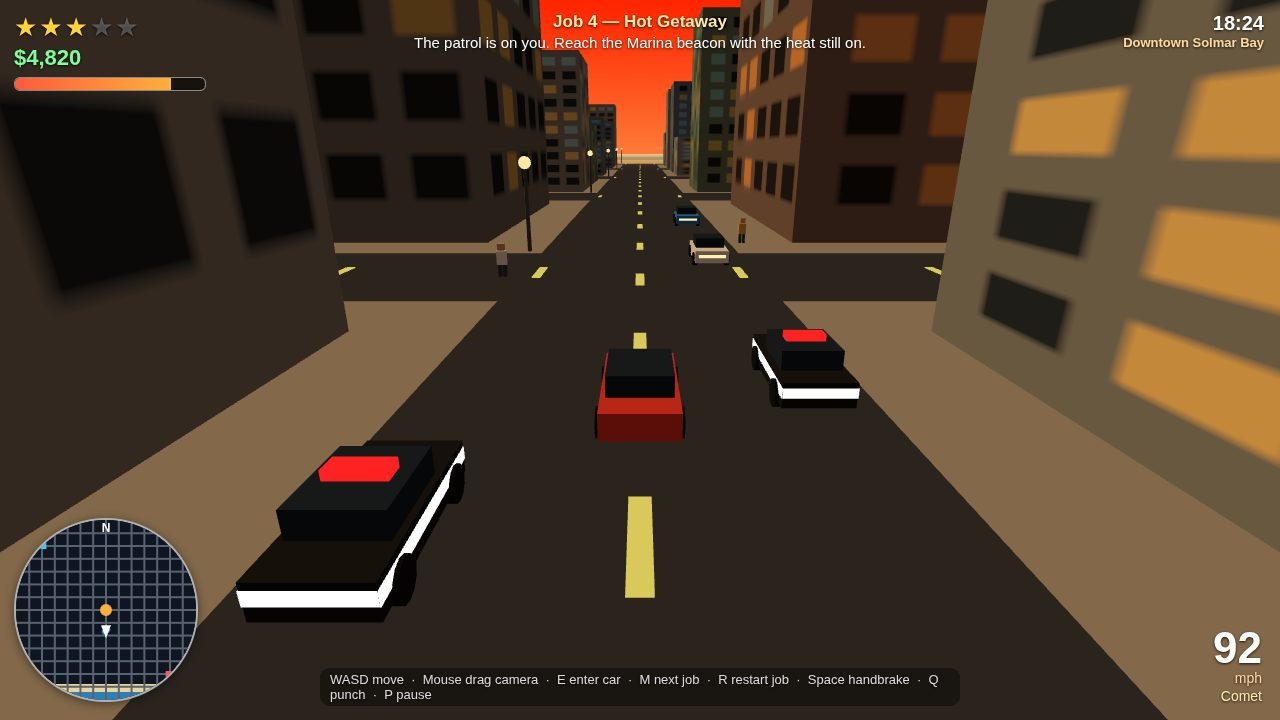
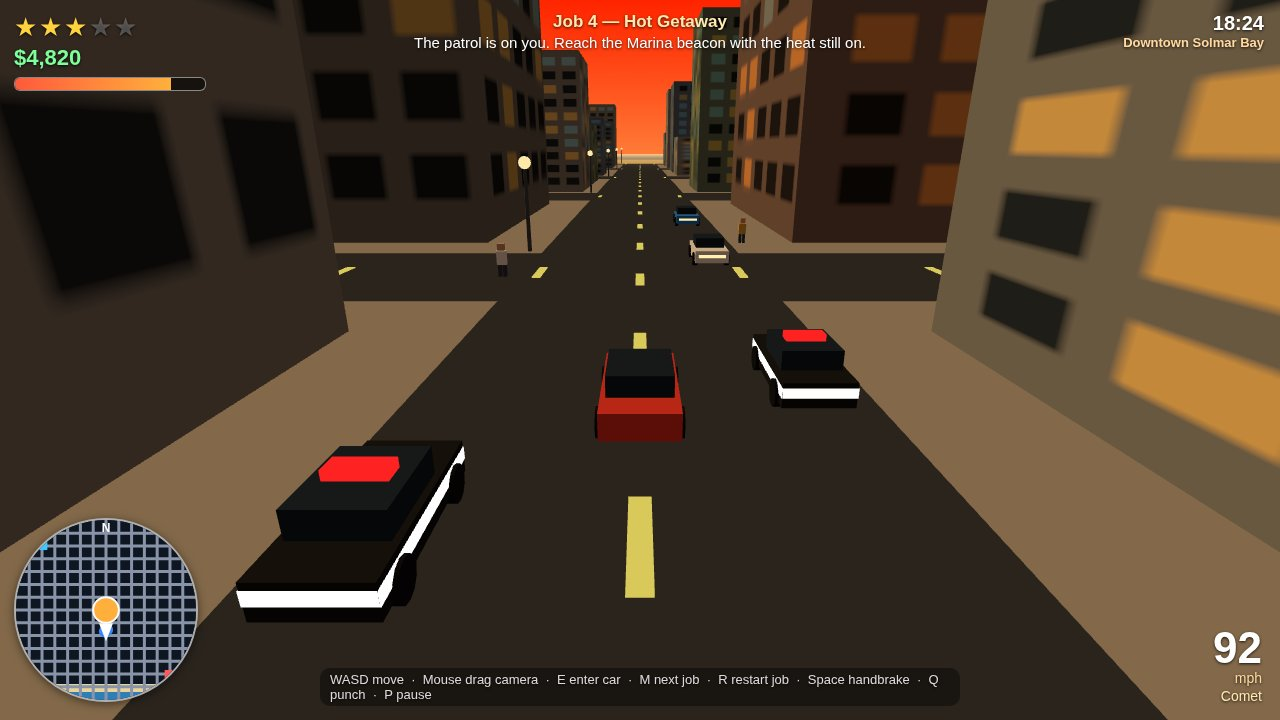
Resubmit reframing: marina water, beachfront drive, in-car mission, legible minimap

Changed region(s): [[0.0, 0.7333, 0.1562, 0.9778], [0.0312, 0.0306, 0.0625, 0.0611]]

diff --git a/game/src/shots.js b/game/src/shots.js
@@ -1,6 +1,22 @@
 // Deterministic ?shot= scenes: chase | drive | mission | heist. Each stages a late-game
 // unlocked state with a fixed seed, freezes traffic, peds and police, and runs a fixed number
 // of physics steps so the same seed always gives the same frame.
+//
+// Resubmit reframing (campaign "90%", pre-build review amendments applied):
+// - drive moved to the southern beachfront road (z = 348): the car runs east with the
+//   beach and water on its right (south) and the downtown towers on its left (north),
+//   a composition unlike chase/heist instead of the same street as chase.
+// - heist moved onto the marina road itself (x = 348, heading south): the Job 5 beacon,
+//   the docks and the boats are ahead of the car, and the eastern marina water strip
+//   (world.js) puts real water under the boats — reframing alone could not show water
+//   there, because the only water was 300 units south of the dry marina.
+// - mission: Rook is now inside a car before Job 1 starts, so the "Drive the package"
+//   objective matches the frame (the Job 2 alternative was dropped: its beacon sits
+//   at (0, 290) on the beach, a whole second framing, not a swap).
+// - chase (the cover) is untouched: same position, heading, cops and street life.
+// - Every moved shot carries its stageStreetLife coordinates with it, so traffic and
+//   pedestrians stay in frame; the cops are already anchored relative to the player.
+// - Step 5 of the plan (facade/shadow variety) was dropped outright as first-to-drop.
 import { STEP } from './config.js';
 import { placeCarAt } from './driving.js';
 import { enterCar } from './player.js';
@@ -38,6 +54,8 @@ function stageCops(game, wanted, offsets) {
 }
 
 // Put a few traffic cars and pedestrians where the camera can see them.
+// Coordinates are per-shot and move with the shot: a staged car or ped left at
+// the old position would sit outside the new frame entirely.
 function stageStreetLife(game, carSpots, pedSpots) {
   game.traffic.cars.slice(0, carSpots.length).forEach((car, i) => {
     car.pos.set(carSpots[i][0], 0, carSpots[i][1]);
@@ -61,27 +79,33 @@ export function stageShot(name, game) {
   game.time = 84 * 60; // 18:24, golden hour.
 
   if (name === 'drive') {
-    stageCar(game, 0, 120, 0, 26);
+    // Beachfront cruise: east along the southernmost road (z = 348), water and
+    // sand on the right, towers on the left. Traffic ahead in both lanes,
+    // pedestrians on the north sidewalk and one on the sand.
+    stageCar(game, -120, 348, Math.PI / 2, 26);
     game.missions.start(1, game.traffic);
     game.police.setWanted(0);
     game.player.health = 100;
-    stageStreetLife(game, [[-4.5, 160, Math.PI], [-4.5, 185, Math.PI]], [[8, 165, 0], [-8, 178, Math.PI], [8, 190, 0]]);
+    stageStreetLife(game, [[-70, 343.5, Math.PI / 2], [-35, 352.5, -Math.PI / 2]], [[-90, 340, 0], [-55, 357, Math.PI], [-20, 340, 0]]);
   } else if (name === 'mission') {
-    // On foot near the Job 1 beacon, downtown, peds strolling past.
-    game.player.pos.set(0, 0, 74);
-    game.player.heading = Math.PI;
-    game.renderer.camState.yaw = Math.PI; // camera behind Rook, beacon ahead in frame
+    // Job 1 from inside the car: Rook sits in the Comet at (0, 90) facing north,
+    // the orange beacon at (0, 58) ahead in frame — the "Drive the package"
+    // objective now matches a driver, not a pedestrian standing still.
+    stageCar(game, 0, 90, Math.PI, 0);
     game.missions.start(0, game.traffic);
     game.police.setWanted(0);
     game.cash.value = 400;
     stageStreetLife(game, [[-4.5, 40, Math.PI], [-4.5, 20, Math.PI]], [[8, 62, 0], [-8, 50, Math.PI], [8, 40, 0]]);
   } else if (name === 'heist') {
-    stageCar(game, 300, 58, Math.PI / 2, 34);
+    // Marina getaway, on the marina road itself: car at (348, -20) heading south,
+    // Job 5 beacon at (340, 58) ahead, docks at z = 20 and 100 and boats at
+    // z = 44..146 ahead on the left (east), all over the marina water strip.
+    stageCar(game, 348, -20, 0, 34);
     game.missions.start(4, game.traffic);
     game.cash.value = 6400;
     game.player.health = 74;
     stageCops(game, 4, [[-6, 8, 40], [6, 10, 38], [-5, -12, 36]]);
-    stageStreetLife(game, [[345, 53.5, -Math.PI / 2], [360, 62.5, -Math.PI / 2]], [[340, 50, 0], [350, 66, Math.PI]]);
+    stageStreetLife(game, [[343.5, 30, 0], [352.5, 60, Math.PI]], [[340, 15, 0], [340, 50, Math.PI]]);
   } else {
     // chase (cover, and the default): downtown police chase, wanted 3, cop ramming.
     stageCar(game, 0, 60, 0, 38);

diff --git a/game/src/hud.js b/game/src/hud.js
@@ -1,4 +1,11 @@
 // HUD: wanted stars, cash, health, clock, objective, speed — and the 2D canvas minimap.
+//
+// Resubmit (campaign "90%"): the minimap was nearly unreadable on the judge's
+// contact sheet (768x480, a 0.6x shrink of the 1280x720 shot), so every mark on
+// it is bigger and higher-contrast now — the mission blip is 8±3 px with a white
+// ring (16 px across full-size, ~9.6 px on the contact sheet, above the 6 px
+// gate), police blips are 6 px radius, the player arrow is larger, road lines
+// are brighter (#8a94a8) and thicker, and the landmark squares are 8 px.
 import { CITY_SIZE } from './config.js';
 
 export function createHud() {
@@ -32,8 +39,8 @@ export function createHud() {
     // Beach + water strip at the south edge.
     mctx.fillStyle = '#e8d49a'; mctx.fillRect(0, S - 16, S, 8);
     mctx.fillStyle = '#2e7fb8'; mctx.fillRect(0, S - 8, S, 8);
-    // Roads.
-    mctx.strokeStyle = '#5a6270'; mctx.lineWidth = 2;
+    // Roads, bright enough to read against #0e1622 at contact-sheet size.
+    mctx.strokeStyle = '#8a94a8'; mctx.lineWidth = 3;
     for (const line of state.world.roadLines) {
       const [x] = toMap(line, 0);
       mctx.beginPath(); mctx.moveTo(x, 0); mctx.lineTo(x, S); mctx.stroke();
@@ -43,23 +50,25 @@ export function createHud() {
     // Spray shop + hospital.
     mctx.fillStyle = '#3ec8ff';
     const [sx, sy] = toMap(state.world.sprayShop.x, state.world.sprayShop.z);
-    mctx.fillRect(sx - 3, sy - 3, 6, 6);
+    mctx.fillRect(sx - 4, sy - 4, 8, 8);
     mctx.fillStyle = '#ff5a5a';
     const [hx, hy] = toMap(state.world.hospital.x, state.world.hospital.z);
-    mctx.fillRect(hx - 3, hy - 3, 6, 6);
-    // Mission beacon blip (pulsing orange).
+    mctx.fillRect(hx - 4, hy - 4, 8, 8);
+    // Mission beacon blip (pulsing orange, white ring so it reads on the sheet).
     if (state.missions.state === 'active') {
       const s = state.missions.spot(state.missions.current);
       const [bx, by] = toMap(s.x, s.z);
-      const pulse = 4 + Math.sin(state.time * 5) * 2;
+      const pulse = 10 + Math.sin(state.time * 5) * 3;
       mctx.fillStyle = '#ffb03c';
       mctx.beginPath(); mctx.arc(bx, by, pulse, 0, Math.PI * 2); mctx.fill();
+      mctx.strokeStyle = '#ffffff'; mctx.lineWidth = 2;
+      mctx.beginPath(); mctx.arc(bx, by, pulse, 0, Math.PI * 2); mctx.stroke();
     }
     // Police blips.
     mctx.fillStyle = '#3a86ff';
     for (const cop of state.police.cops) {
       const [cx, cy] = toMap(cop.pos.x, cop.pos.z);
-      mctx.beginPath(); mctx.arc(cx, cy, 3, 0, Math.PI * 2); mctx.fill();
+      mctx.beginPath(); mctx.arc(cx, cy, 6, 0, Math.PI * 2); mctx.fill();
     }
     // Player arrow.
     const [px, py] = toMap(state.player.pos.x, state.player.pos.z);
@@ -67,7 +76,7 @@ export function createHud() {
     mctx.save();
     mctx.translate(px, py); mctx.rotate(heading + Math.PI); // canvas up is -z; heading 0 drives +z
     mctx.fillStyle = '#ffffff';
-    mctx.beginPath(); mctx.moveTo(0, -7); mctx.lineTo(5, 6); mctx.lineTo(-5, 6); mctx.closePath(); mctx.fill();
+    mctx.beginPath(); mctx.moveTo(0, -10); mctx.lineTo(7, 8); mctx.lineTo(-7, 8); mctx.closePath(); mctx.fill();
     mctx.restore();
     // North indicator.
     mctx.fillStyle = '#ffffff'; mctx.font = 'bold 12px Arial'; mctx.textAlign = 'center';

diff --git a/game/src/world.js b/game/src/world.js
@@ -65,6 +65,16 @@ export function createWorld(seedRandom) {
   const water = new THREE.Mesh(new THREE.PlaneGeometry(CITY_SIZE + 400, 300), waterMat);
   water.rotation.x = -Math.PI / 2; water.position.set(0, -0.4, HALF + 240); group.add(water);
 
+  // Marina water (east edge, resubmit — mandatory, not conditional): the marina
+  // boats and docks stood on dry ground, because the only water was 300 units
+  // south of them and the ground plane (y -0.05) would hide any water below it.
+  // So this strip rides just above the ground (y 0.02), east of the marina road
+  // (x 356..568, clear of the road at x <= 355 and of every building at x <= 339),
+  // z -210..210, putting real water under all ten boats and all four docks.
+  const marinaWaterMat = new THREE.MeshLambertMaterial({ color: 0x2e7fb8, transparent: true, opacity: 0.95 });
+  const marinaWater = new THREE.Mesh(new THREE.PlaneGeometry(212, 420), marinaWaterMat);
+  marinaWater.rotation.x = -Math.PI / 2; marinaWater.position.set(462, 0.02, 0); group.add(marinaWater);
+
   // Buildings: one instanced box per tower, tinted per instance, window texture shared.
   const spots = [];
   for (let i = 0; i < CITY_BLOCKS; i += 1) {
@@ -140,6 +150,7 @@ export function createWorld(seedRandom) {
     cabin.position.set(-0.5, 2.2, 0); boat.add(cabin);
     boat.position.set(HALF + 14 + random.range(0, 30), 0, -160 + b * 34 + random.range(-6, 6));
     boat.rotation.y = random.range(-0.15, 0.15);
+    boat.scale.setScalar(1.3); // larger hulls read as boats, not boxes, at shot distance
     group.add(boat);
   }
   // Spray shop (repaint clears wanted) and hospital (respawn point), as glowing sign boxes.
